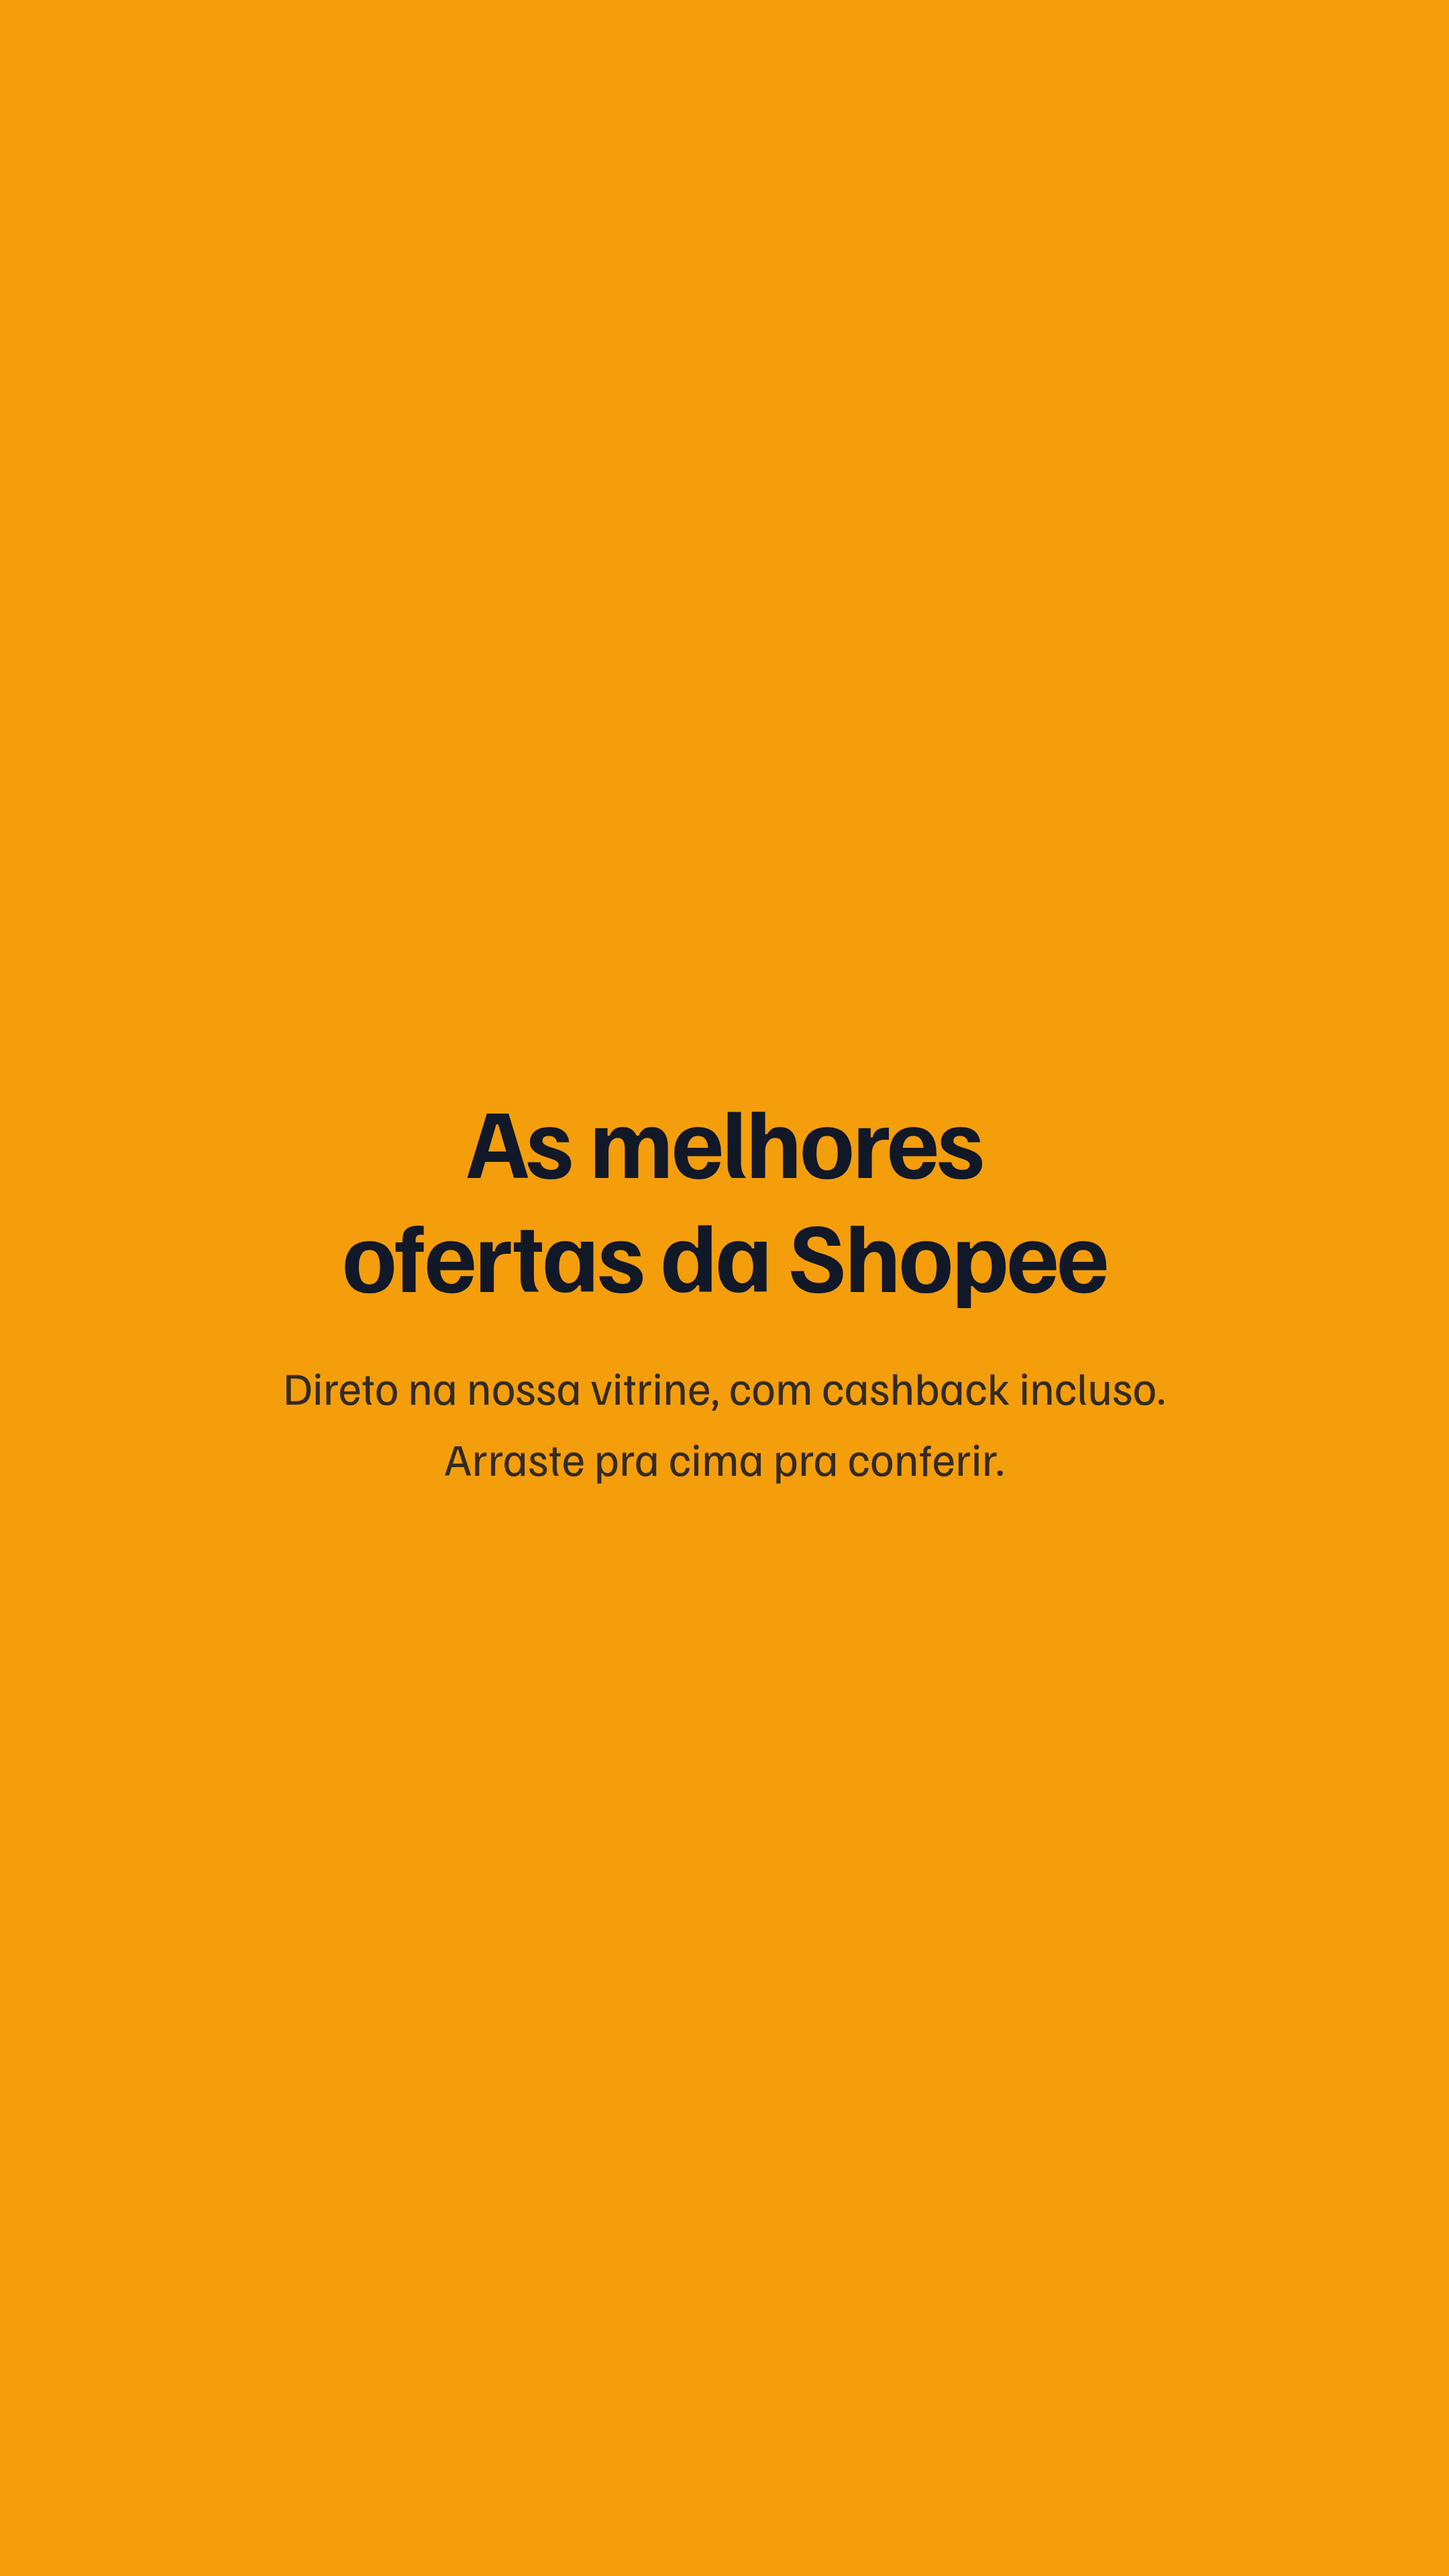
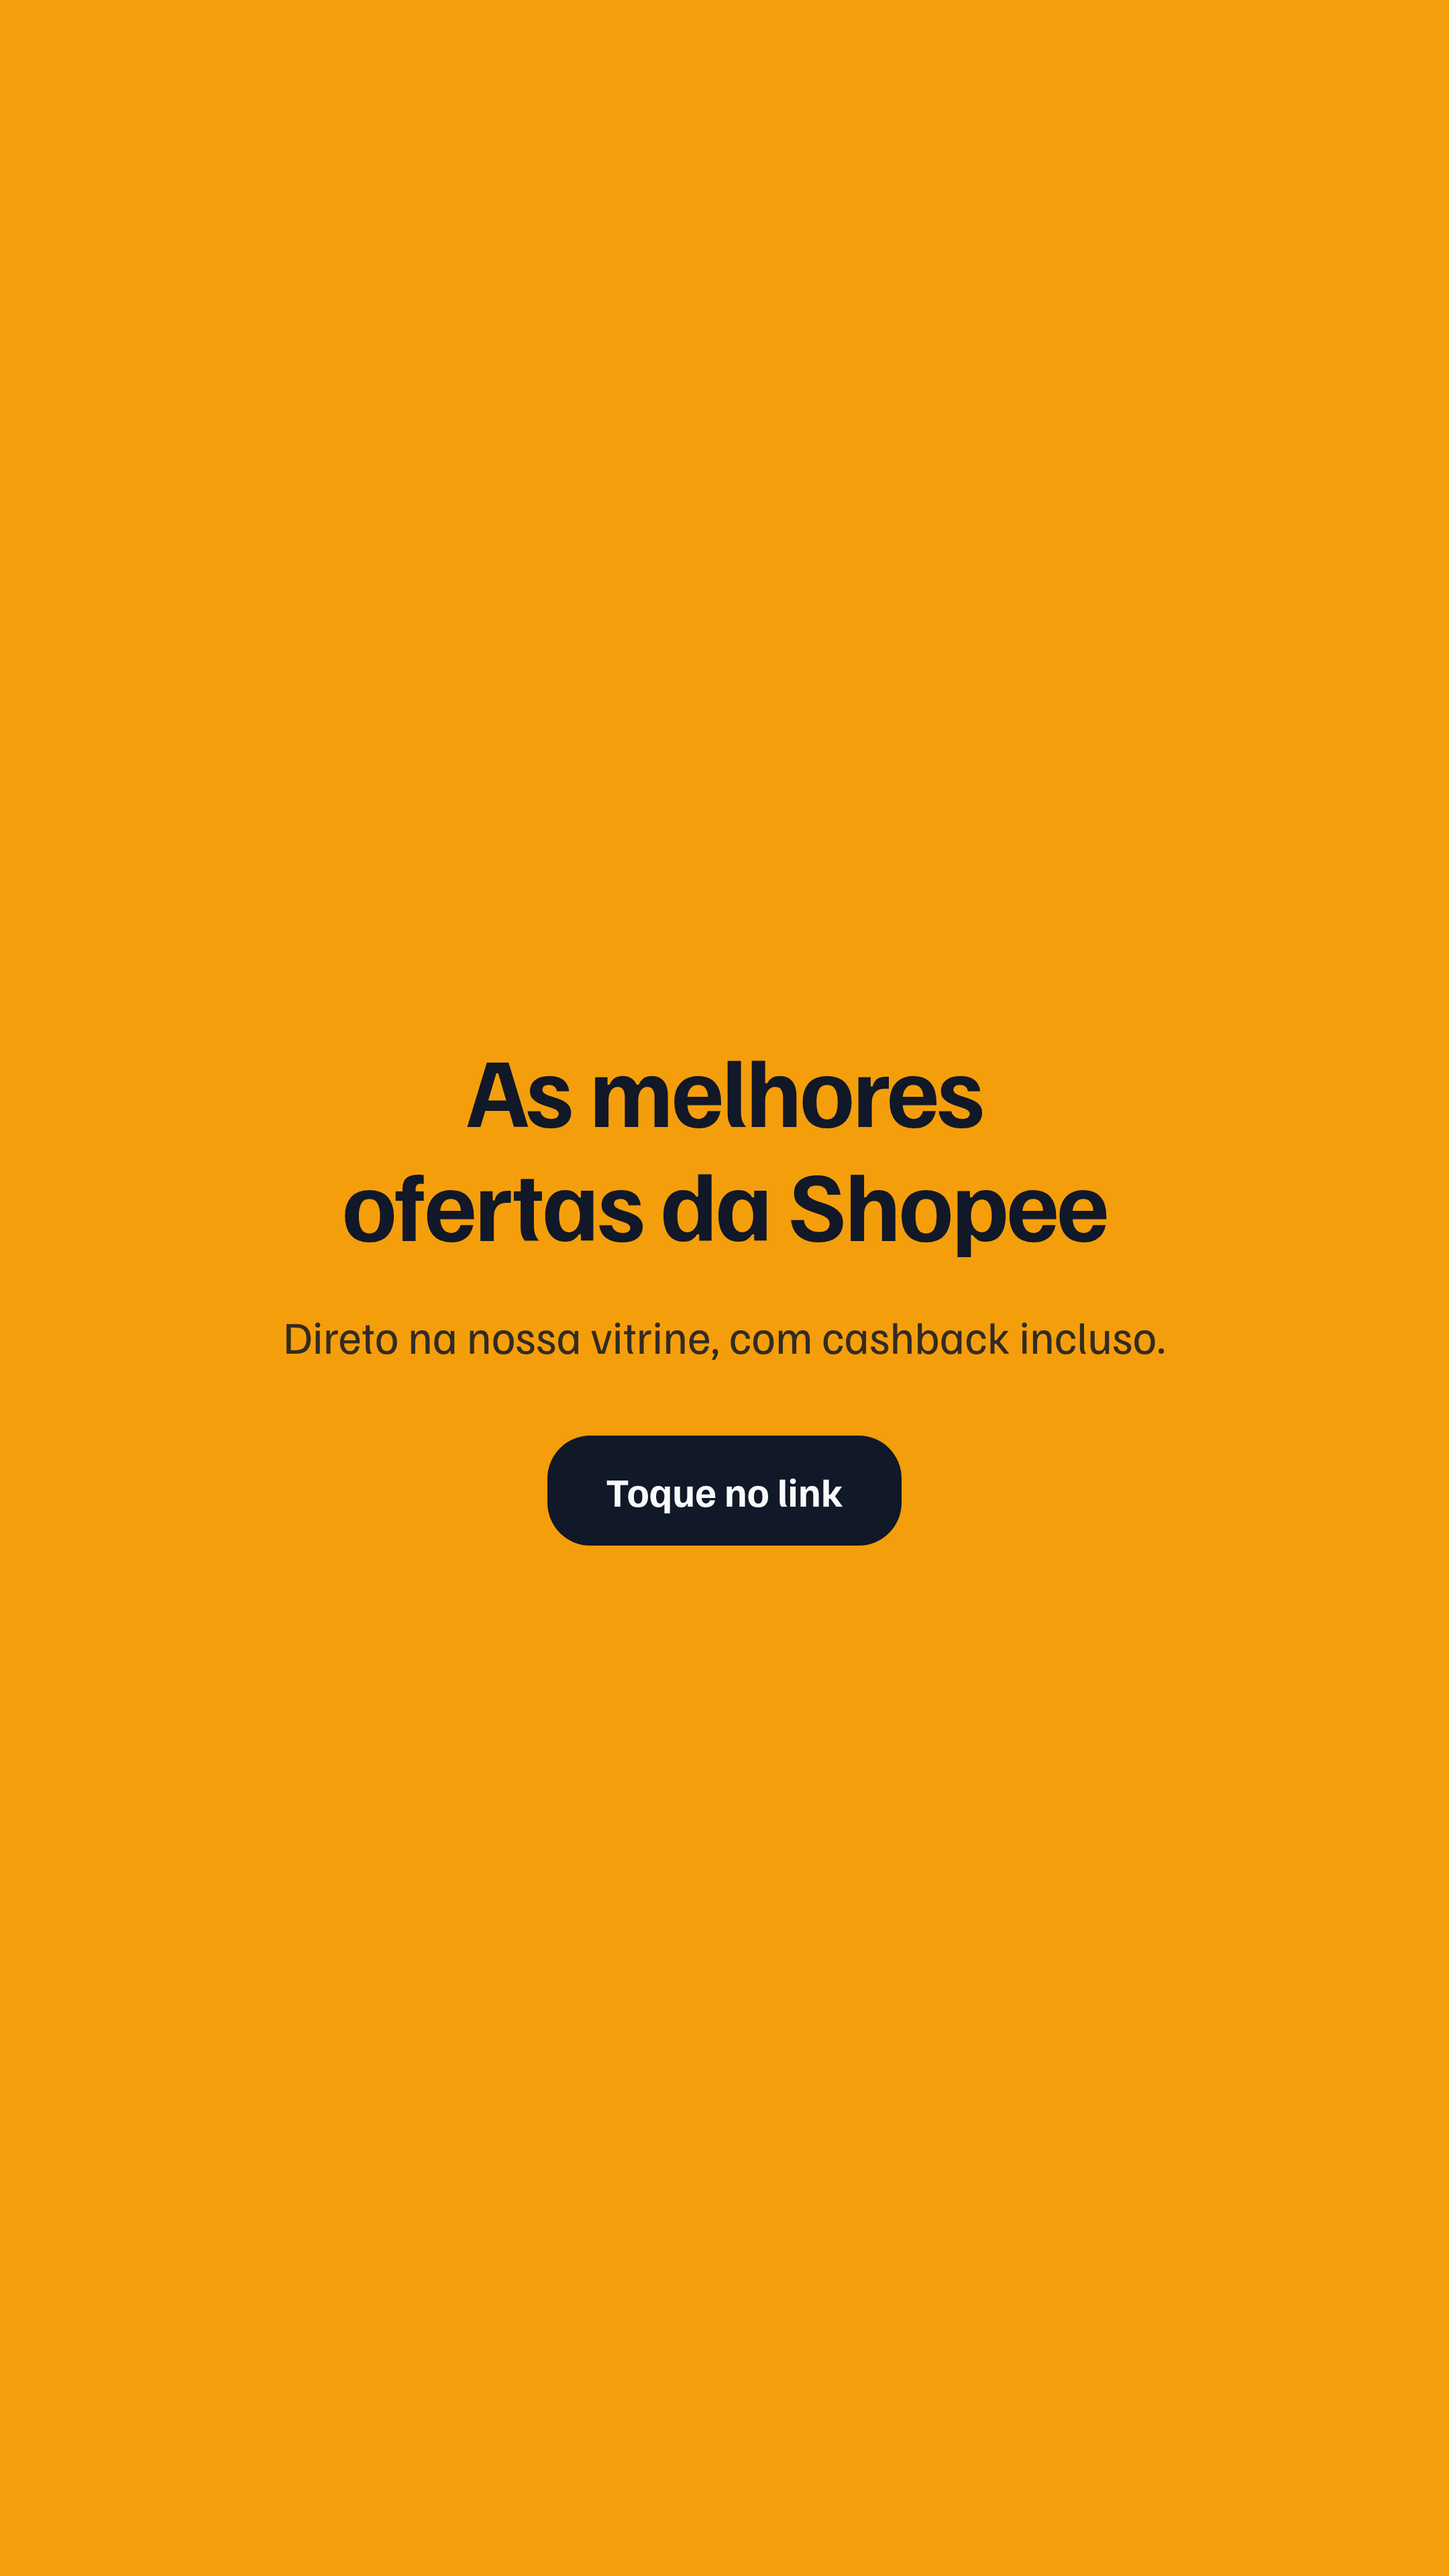
Corrige CTA do destaque Ofertas (remove instrução de gesto extinto)
"Arraste pra cima" foi substituído pelo sticker de link em 2021 e não
existe mais no Instagram - a instrução ensinava um gesto que não
funciona. Troca por um CTA genérico ("Toque no link"), já que o link
em si é adicionado no momento de postar o story (sticker), não faz
parte da arte.

Changed region(s): [[0.1861, 0.4062, 0.8065, 0.625]]

diff --git a/marketing/instagram/gerar_destaques_instagram.py b/marketing/instagram/gerar_destaques_instagram.py
@@ -234,8 +234,10 @@ render_story("03-ofertas", "01-intro.png", f"""
      justify-content:center; align-items:center; text-align:center; padding:0 100px;">
     <div style="font-size:74px; font-weight:700; line-height:1.15; letter-spacing:-0.02em;">As melhores<br>ofertas da Shopee</div>
     <div style="font-size:34px; margin-top:32px; opacity:0.85; line-height:1.55; max-width:760px;">
-        Direto na nossa vitrine, com cashback incluso. Arraste pra cima pra conferir.
+        Direto na nossa vitrine, com cashback incluso.
     </div>
+    <div style="margin-top:48px; display:inline-flex; padding:22px 44px; border-radius:32px; background:{COLORS['ink']};
+                color:{COLORS['paper']}; font-weight:700; font-size:30px;">Toque no link</div>
 </div>
 """)
 
